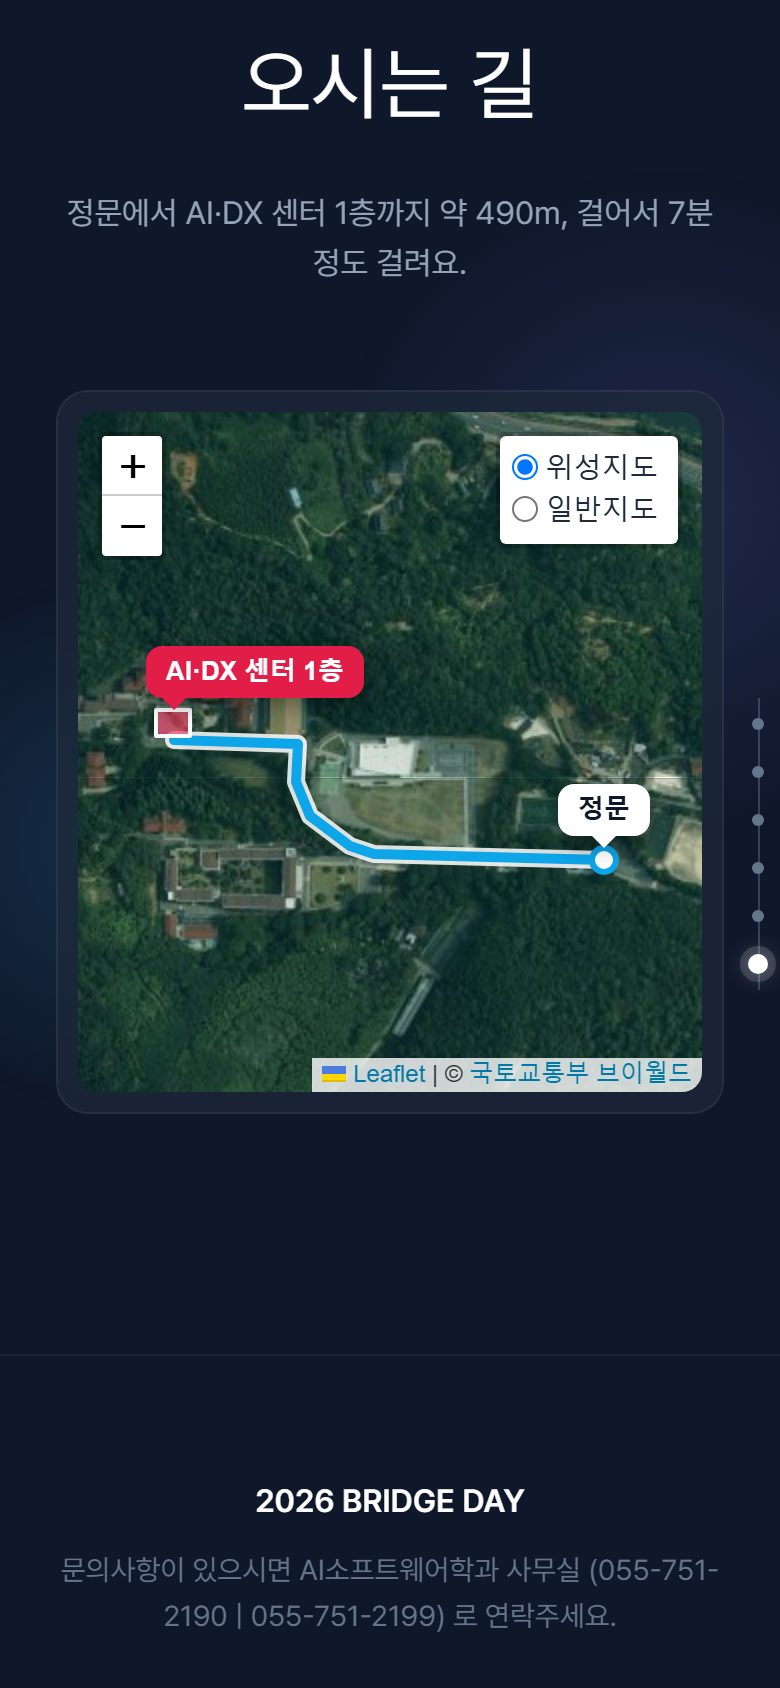
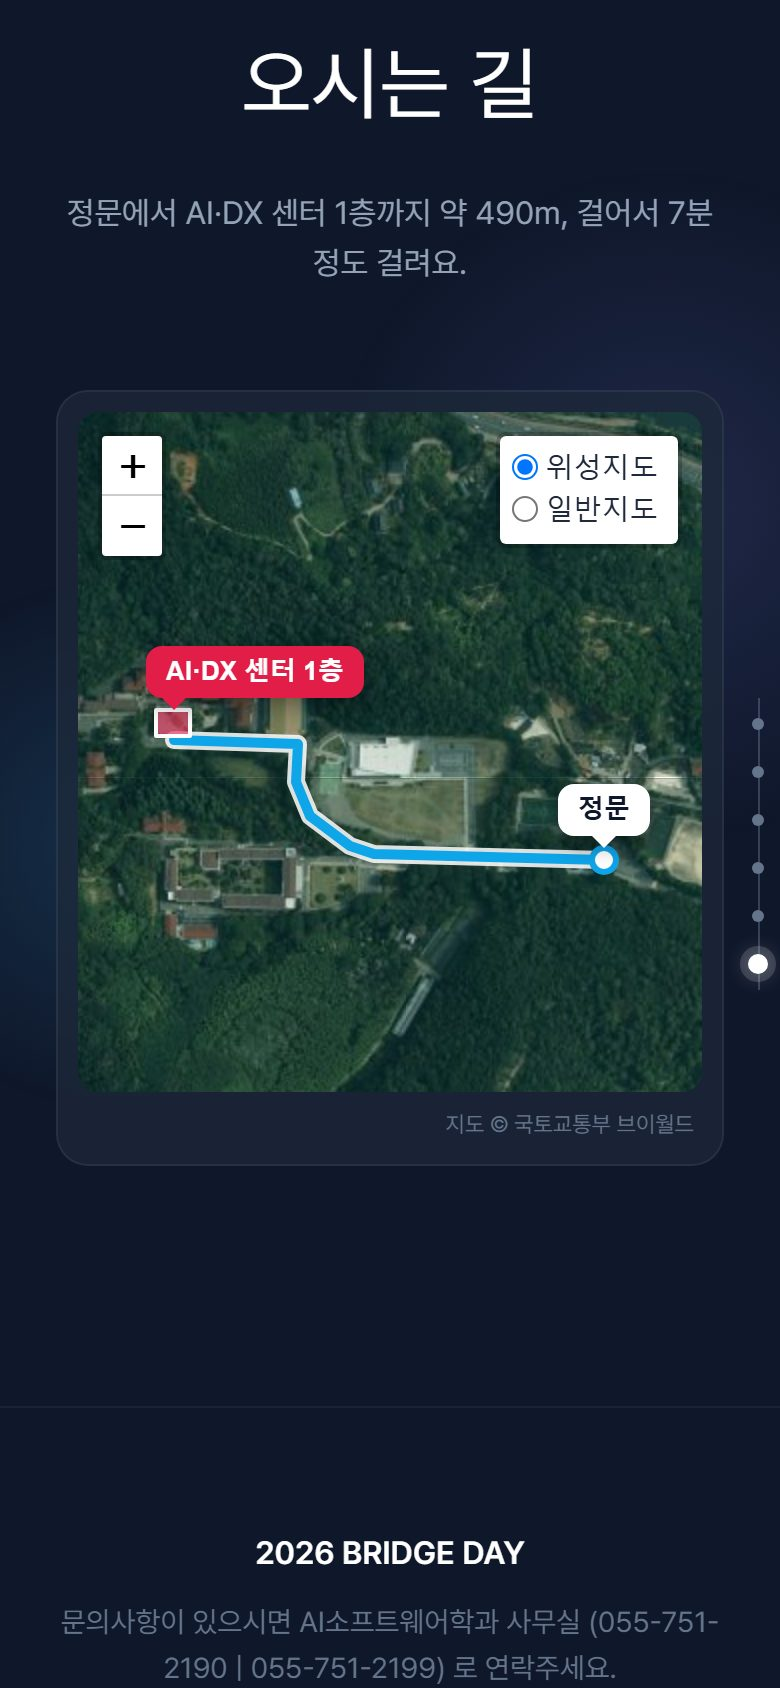
style: 지도 위 출처 표시 상자 제거
- 지도 오른쪽 아래 "Leaflet | © 국토교통부 브이월드" 상자를 숨김
- 브이월드는 출처 표시가 필요해서 지도 아래에 작은 글씨로 출처를 남김

Changed region(s): [[0.0923, 0.8626, 0.8308, 1.0], [0.4, 0.6161, 0.9231, 0.6777], [0.8615, 0.9242, 0.8923, 0.9858]]

diff --git a/src/components/CampusMap.tsx b/src/components/CampusMap.tsx
@@ -8,24 +8,18 @@ import { destination, destinationOutline, gate, route } from "../campusRoute";
 // 위성지도에는 브이월드 라벨 층(Hybrid)을 겹치지 않아요: 학교 옛 이름(연암공업전문대학)이 떠서 헷갈려요.
 const KEY = import.meta.env.VITE_VWORLD_KEY;
 const vworld = (layer: string, ext: string) => `https://api.vworld.kr/req/wmts/1.0.0/${KEY}/${layer}/{z}/{y}/{x}.${ext}`;
-const VWORLD_CREDIT = '© <a href="https://www.vworld.kr" target="_blank" rel="noopener noreferrer">국토교통부 브이월드</a>';
 const TILE = { maxZoom: 19, maxNativeZoom: 19 };
+
+// 지도 출처: 지도 위 상자 대신 지도 아래에 글자로 적어요 (브이월드는 출처 표시가 필요해요).
+const CREDIT = KEY ? "지도 © 국토교통부 브이월드" : "지도 © Esri, © OpenStreetMap contributors";
 
 const satelliteLayer = () =>
   KEY
-    ? L.tileLayer(vworld("Satellite", "jpeg"), { ...TILE, attribution: VWORLD_CREDIT })
-    : L.tileLayer("https://server.arcgisonline.com/ArcGIS/rest/services/World_Imagery/MapServer/tile/{z}/{y}/{x}", {
-        ...TILE,
-        attribution: "Imagery © Esri",
-      });
+    ? L.tileLayer(vworld("Satellite", "jpeg"), TILE)
+    : L.tileLayer("https://server.arcgisonline.com/ArcGIS/rest/services/World_Imagery/MapServer/tile/{z}/{y}/{x}", TILE);
 
 const baseLayer = () =>
-  KEY
-    ? L.tileLayer(vworld("Base", "png"), { ...TILE, attribution: VWORLD_CREDIT })
-    : L.tileLayer("https://tile.openstreetmap.org/{z}/{x}/{y}.png", {
-        maxZoom: 19,
-        attribution: "© OpenStreetMap contributors",
-      });
+  KEY ? L.tileLayer(vworld("Base", "png"), TILE) : L.tileLayer("https://tile.openstreetmap.org/{z}/{x}/{y}.png", TILE);
 
 // 지도 위 글자 표시 (정문 · 목적지)
 const tag = (text: string, kind: "gate" | "dest") =>
@@ -40,6 +34,7 @@ const CampusMap = () => {
     // 휴대폰에서는 한 손가락으로 페이지를 스크롤할 수 있게 지도 끌기는 끄고, 두 손가락 확대만 남겨요.
     const touch = window.matchMedia("(pointer: coarse)").matches;
     const map = L.map(ref.current, {
+      attributionControl: false, // 지도 위 "Leaflet | © ..." 상자는 숨기고 출처는 지도 아래에
       scrollWheelZoom: false,
       dragging: !touch,
       minZoom: 15,
@@ -76,7 +71,12 @@ const CampusMap = () => {
     };
   }, []);
 
-  return <div ref={ref} className="campus-map-live" role="region" aria-label="정문에서 AI·DX 센터까지 가는 길 지도" />;
+  return (
+    <>
+      <div ref={ref} className="campus-map-live" role="region" aria-label="정문에서 AI·DX 센터까지 가는 길 지도" />
+      <p className="map-credit">{CREDIT}</p>
+    </>
+  );
 };
 
 export default CampusMap;

diff --git a/src/index.css b/src/index.css
@@ -889,6 +889,14 @@ footer .sub-footer {
   background: linear-gradient(90deg, #1e293b, #273449, #1e293b);
 }
 
+/* 지도 출처 (지도 아래 작은 글씨) */
+.map-credit {
+  margin: 8px 4px 0;
+  font-size: 0.7rem;
+  color: #64748b;
+  text-align: right;
+}
+
 /* 지도 위 상자들은 밝은 배경이라 글자색을 어둡게 */
 .campus-map-live .leaflet-control-layers {
   color: #1e293b;
